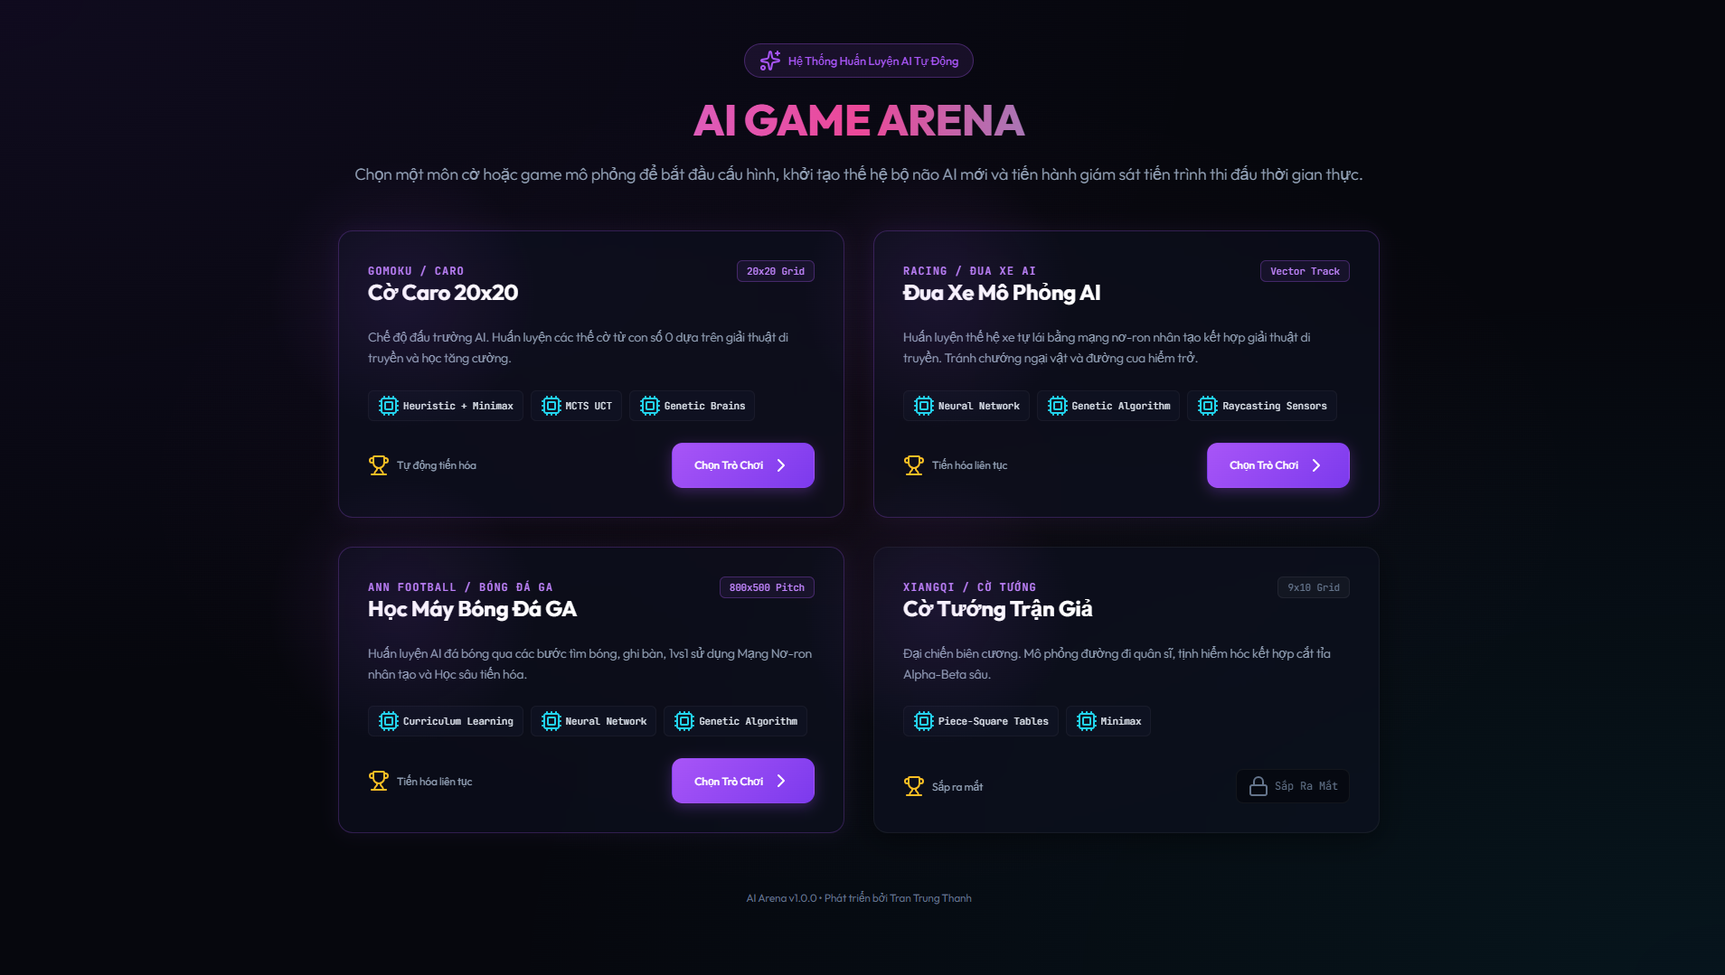
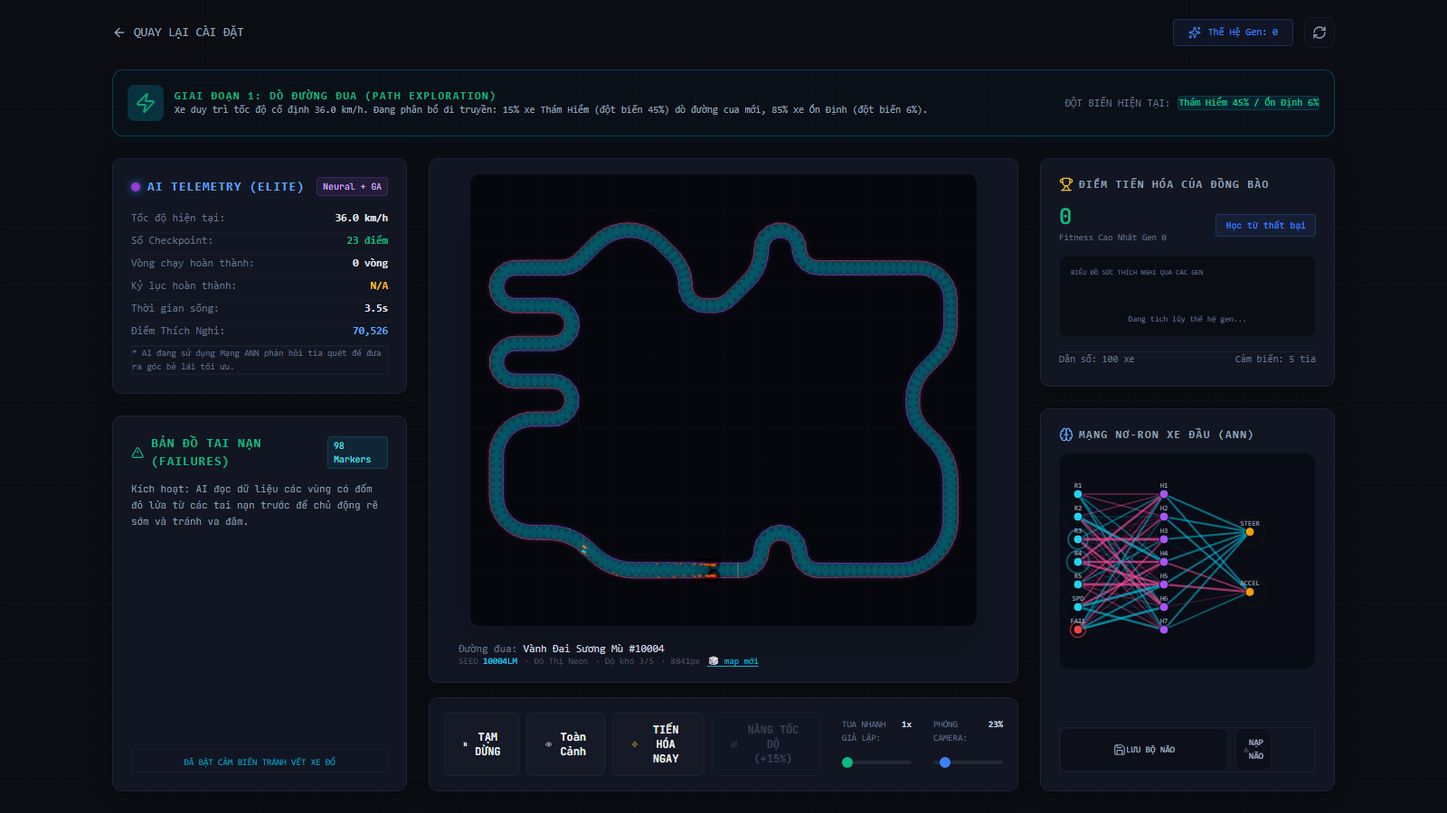
feat: default to English for international clients, add web-scraping-showcase & replace project highlight images

diff --git a/src/components/ProjectSection.tsx b/src/components/ProjectSection.tsx
@@ -12,15 +12,15 @@ const ghImage = (repo: string) =>
 // Ảnh chụp màn hình thật của từng dự án (đặt trong thư mục public IMG/).
 // Được ưu tiên hơn ảnh OpenGraph; nếu thiếu file, <img onError> sẽ tự rơi về ảnh GitHub.
 const REPO_IMAGES: Record<string, string> = {
+  "web-scraping-showcase": "/IMG/project-scraping.png",
   DiemDanhQR: "/IMG/project-diemdanhqr.jpg",
   AI_Lab: "/IMG/project-ailab.png",
   KNN: "/IMG/project-knn.png",
+  "H-c-AI-ML": "/IMG/project-aiml.png",
   Portfolio: "/IMG/project-portfolio.png",
   // Dự án private (không công khai code) — chỉ hiển thị ảnh demo, thả file vào public/IMG/
   AutoTool: "/IMG/project-autotool.png",
   WorkFlowAI: "/IMG/project-workflowai.png",
-  // CHƯA CÓ ẢNH — thả ảnh chụp màn hình vào public/IMG/ đúng tên dưới đây.
-  // Thiếu file thì <img onError> tự rơi về ảnh placeholder có tên dự án, không vỡ layout.
   MadalenaApp: "/IMG/project-madalena-app.png",
   MadalenaWeb: "/IMG/project-madalena-web.png",
   LichIUH: "/IMG/project-lichiuh.png",
@@ -46,7 +46,32 @@ const projectImage = (repo: string) => REPO_IMAGES[repo] || ghImage(repo);
 //            vào cách giải quyết vấn đề, quyết định kỹ thuật và kết quả đạt được.
 //   tech    — danh sách công nghệ, hiện dạng chip trong modal.
 const REPO_META: Record<string, any> = {
+  "web-scraping-showcase": {
+    category: "PYTHON • PLAYWRIGHT • API",
+    shortName: "SCRAPING TOOLKIT",
+    shortNameEn: "SCRAPING TOOLKIT",
+    title: "Web Scraping | Cào dữ liệu & Dò API ẩn",
+    titleEn: "Web Scraping & Hidden API Extraction Toolkit",
+    desc: "Bộ công cụ Python cào dữ liệu song song, tự động dò API JSON ẩn phía sau trang web và xuất ra CSV, JSON, SQLite.",
+    descEn:
+      "Production-style Python scraping toolkit: async HTML crawler, Playwright vs. Hidden JSON API benchmark, and automatic XHR endpoint sniffer.",
+    detailEn:
+      "A production-oriented Python web data extraction toolkit demonstrating three core workflows on public sandbox targets:\n\n1. Polite Async HTML Scraper (`scrape-books`): Crawls 1,000+ paginated catalog and product detail pages using `httpx.AsyncClient`, bounded concurrency (`asyncio.Semaphore`), exponential backoff, and `Retry-After` header support. Exports simultaneously to CSV, pretty JSON, and an idempotent SQLite database (`INSERT OR REPLACE` upserts).\n\n2. Infinite Scroll vs. Direct Hidden JSON API (`compare-scroll`): Extracts the exact same dataset via headless Chromium (Playwright infinite scroll) and via the underlying JSON API, cutting memory usage from ~180 MB to <15 MB while speeding up extraction cleanly.\n\n3. Reusable Hidden-API Sniffer (`sniff-api`): Launches headless Chromium on any JavaScript-heavy page, scrolls automatically, intercepts XHR/Fetch responses returning JSON, and prints discovered endpoints with their top-level schema keys and item counts.",
+    detail:
+      "Bộ công cụ thu thập dữ liệu web chuẩn thực chiến bằng Python, trình diễn 3 quy trình cốt lõi:\n\n1. Cào HTML bất đồng bộ có kiểm soát (`scrape-books`): Quét hơn 1.000 trang danh mục và chi tiết sản phẩm bằng `httpx.AsyncClient`, giới hạn số luồng đồng thời (`asyncio.Semaphore`), tự động thử lại theo cấp số nhân (exponential backoff) và tôn trọng header `Retry-After`. Xuất đồng thời ra CSV, JSON và cơ sở dữ liệu SQLite chống trùng lặp (`INSERT OR REPLACE`).\n\n2. So sánh Cuộn vô tận Playwright và Hidden JSON API (`compare-scroll`): Thu thập cùng một tập dữ liệu bằng trình duyệt không đầu (Playwright) và gọi trực tiếp API JSON ẩn bên dưới, giúp giảm RAM từ ~180 MB xuống dưới 15 MB và tăng tốc độ rõ rệt.\n\n3. Công cụ dò API ẩn dùng lại được (`sniff-api`): Mở trang bất kỳ bằng Chromium, tự động cuộn trang, bắt mọi gói tin XHR/Fetch trả về JSON và liệt kê endpoint kèm cấu trúc khoá dữ liệu.",
+    tech: ["Python", "Playwright", "httpx", "Asyncio", "BeautifulSoup4", "SQLite"],
+    role: "Python / Scraping Developer",
+    roleEn: "Python / Scraping Developer",
+    client: "Dự án mã nguồn mở",
+    clientEn: "Open-source showcase",
+    yearRole: "2026 • Python & Playwright",
+  },
   DiemDanhQR: {
+    category: "JAVASCRIPT • PWA",
+    shortName: "QR ATTENDANCE",
+    shortNameEn: "QR ATTENDANCE",
+    title: "DiemDanhQR | Điểm danh QR",
+    titleEn: "QR Attendance | Serverless Check-In PWA",
     desc: "Điểm danh bằng cách quét mã QR trên điện thoại, tên người có mặt tự chạy thẳng vào Google Sheets.",
     descEn:
       "Take attendance by scanning a QR code on your phone — names land straight in a Google Sheet.",
@@ -61,9 +86,14 @@ const REPO_META: Record<string, any> = {
     clientEn: "Personal project",
   },
   AI_Lab: {
-    desc: "8 trò chơi để xem máy tính tự học chơi từ con số 0 — từ Flappy Bird tới cờ caro và đá bóng 3D.",
+    category: "TYPESCRIPT & AI",
+    shortName: "AI LAB",
+    shortNameEn: "AI LAB",
+    title: "AI_Lab | Phòng thí nghiệm AI",
+    titleEn: "AI Game Arena | Interactive AI & RL Lab",
+    desc: "9 đấu trường 2D/3D để xem máy tính tự học chơi từ con số 0 — từ đua xe thần kinh, cờ caro 20×20 tới đá bóng 3D.",
     descEn:
-      "Eight games where you watch a computer teach itself to play from scratch — Flappy Bird to 3D football.",
+      "Nine 2D & 3D arenas where you watch AI teach itself to play from scratch — raycast racing, 20×20 Gomoku, Q-Maze to 3D football.",
     detailEn:
       "AI Game Arena — a desktop app (Electron) that visualises how AI algorithms, classic and modern, learn and make decisions. You tune the training parameters, network shape or heuristic weights yourself, then watch an AI learn from nothing, or pit two of them against each other.\n\nEight environments, each built on a different family of algorithms:\n• Flappy Bird and AI Racing — neural networks evolved by a genetic algorithm; the cars sense their surroundings with raycasts, and a built-in track builder lets you draw your own circuit.\n• Maze robot — Q-Learning, with a heatmap of the Q-table brightening as the agent learns.\n• 2048 — Expectimax search with heuristics for smoothness, monotonicity and keeping the largest tile cornered.\n• Connect Four and 20×20 Gomoku — Minimax with alpha-beta pruning and a Zobrist-hashed transposition table, plus an MCTS/UCT implementation so the two can be compared head to head.\n• 3D Soccer and 3D Tag — competitive co-evolution with 8-direction raycast sensors and real ball physics.",
     detail:
@@ -93,6 +123,11 @@ const REPO_META: Record<string, any> = {
     yearRole: "2026 • Project Manager",
   },
   Portfolio: {
+    category: "WEB & 3D",
+    shortName: "PORTFOLIO",
+    shortNameEn: "PORTFOLIO",
+    title: "Portfolio | Trang cá nhân 3D",
+    titleEn: "Portfolio | Interactive 3D & SSR Showcase",
     desc: "Chính là trang web bạn đang xem: hiệu ứng 3D, bàn phím tương tác và các trang giới thiệu bản thân.",
     descEn:
       "The site you're looking at right now: 3D effects, an interactive keyboard and the pages introducing me.",
@@ -356,8 +391,15 @@ const privateProjects = [
 // (offline / vượt giới hạn request). Bản fetch động bên dưới sẽ ghi đè phần repo công khai.
 const publicProjects = [
   {
+    id: "web-scraping-showcase",
+    ...REPO_META["web-scraping-showcase"],
+    image: projectImage("web-scraping-showcase"),
+    year: "2026",
+    link: `https://github.com/${GITHUB_USER}/web-scraping-showcase`,
+  },
+  {
     id: "DiemDanhQR",
-    category: "JAVASCRIPT",
+    category: "JAVASCRIPT • PWA",
     shortName: "QR ATTENDANCE",
     title: "DiemDanhQR | Điểm danh QR",
     ...REPO_META.DiemDanhQR,
@@ -563,11 +605,16 @@ function mapRepoToProject(repo: any) {
     id: repo.name,
     category: (repo.language || "PROJECT").toUpperCase(),
     shortName: repo.name,
+    shortNameEn: repo.name,
     title: repo.name,
+    titleEn: repo.name,
     desc: repo.description || "Dự án mã nguồn trên GitHub — bấm để xem chi tiết.",
+    descEn: repo.description || "Open-source project on GitHub — click for details.",
     image: projectImage(repo.name),
     role: `${lang} Developer`,
+    roleEn: `${lang} Developer`,
     client: "Dự án cá nhân",
+    clientEn: "Personal project",
     year,
     yearRole: `${year} • ${lang}`,
     link: repo.html_url,
@@ -679,8 +726,11 @@ export function ProjectSection() {
       .then((r) => (r.ok ? r.json() : Promise.reject(r.status)))
       .then((repos) => {
         if (cancelled || !Array.isArray(repos)) return;
-        // Bỏ các repo fork, chỉ giữ dự án của chính mình
-        const mapped = repos.filter((r: any) => !r.fork).map(mapRepoToProject);
+        // Bỏ các repo fork và repo trùng với dự án đã có trong danh sách private (vd GhiChu trùng NoteMod)
+        const HIDDEN_REPOS = new Set(["GhiChu", "Tthanh2k6"]);
+        const mapped = repos
+          .filter((r: any) => !r.fork && !HIDDEN_REPOS.has(r.name))
+          .map(mapRepoToProject);
         // Luôn giữ dự án private (tool) ở đầu — GitHub API không trả về chúng
         if (mapped.length > 0) applyList([...privateProjects, ...mapped]);
       })

diff --git a/src/routes/index.tsx b/src/routes/index.tsx
@@ -3,18 +3,19 @@ import { useState, useEffect } from "react";
 import { motion } from "framer-motion";
 import { HeroScene } from "@/components/HeroScene";
 import { NavBar } from "@/components/NavBar";
+import { useLang } from "@/lib/i18n";
 
 
 export const Route = createFileRoute("/")({
   head: () => ({
     meta: [
-      { title: "Trần Trung Thành — AI / WEB3 / UI / 3D / MOTION / VIDEO" },
+      { title: "Trung Thanh Tran — Web Scraping, Automation, Full-Stack & AI Developer" },
       {
         name: "description",
-        content: "Portfolio of Trần Trung Thành — designer & developer working across AI, Web3, UI, 3D, motion and video.",
+        content: "Portfolio of Trung Thanh Tran (Trần Trung Thành) — Full-Stack, Web Scraping, Browser Automation, Mobile & AI Developer.",
       },
-      { property: "og:title", content: "Trần Trung Thành — Portfolio" },
-      { property: "og:description", content: "Just chill. The future is rendering." },
+      { property: "og:title", content: "Trung Thanh Tran — Developer Portfolio" },
+      { property: "og:description", content: "Web Scraping · Browser Automation · Full-Stack Web · Mobile · AI" },
     ],
     links: [
       { rel: "preconnect", href: "https://fonts.googleapis.com" },
@@ -36,13 +37,14 @@ const navItems = [
   { label: "Contact", to: "/contact" },
 ];
 
-const tags = ["AI", "WEB3", "UI", "3D", "MOTION", "VIDEO"];
+const tags = ["WEB SCRAPING", "AUTOMATION", "FULL-STACK", "AI / ML", "MOBILE", "3D WEB"];
 
 function Index() {
+  const { lang } = useLang();
   const [mounted, setMounted] = useState(false);
-  const [line1, setLine1] = useState("Just chill. The future is rendering...");
-  const [line2, setLine2] = useState("Trần Trung Thành");
-  const [tagsList, setTagsList] = useState(["AI", "WEB3", "UI", "3D", "MOTION", "VIDEO"]);
+  const [line1, setLine1] = useState("Building scrapers, automations & full-stack products that ship.");
+  const [customLine2, setCustomLine2] = useState<string | null>(null);
+  const [tagsList, setTagsList] = useState(["WEB SCRAPING", "AUTOMATION", "FULL-STACK", "AI / ML", "MOBILE", "3D WEB"]);
 
   useEffect(() => {
     setMounted(true);
@@ -50,9 +52,11 @@ function Index() {
     const stored2 = localStorage.getItem("home_line_2");
     const stored3 = localStorage.getItem("home_line_3");
     if (stored1) setLine1(stored1);
-    if (stored2) setLine2(stored2);
+    if (stored2) setCustomLine2(stored2);
     if (stored3) setTagsList(stored3.split(",").map(t => t.trim()).filter(Boolean));
   }, []);
+
+  const line2 = customLine2 || (lang === "en" ? "Trung Thanh Tran" : "Trần Trung Thành");
 
   return (
     <main className="relative w-full overflow-x-hidden bg-black text-white">

diff --git a/src/routes/__root.tsx b/src/routes/__root.tsx
@@ -80,14 +80,24 @@ export const Route = createRootRouteWithContext<{ queryClient: QueryClient }>()(
     meta: [
       { charSet: "utf-8" },
       { name: "viewport", content: "width=device-width, initial-scale=1" },
-      { title: "Lovable App" },
-      { name: "description", content: "Lovable Generated Project" },
-      { name: "author", content: "Lovable" },
-      { property: "og:title", content: "Lovable App" },
-      { property: "og:description", content: "Lovable Generated Project" },
+      { title: "Trung Thanh Tran — Full-Stack, Web Scraping & Automation Developer" },
+      {
+        name: "description",
+        content:
+          "Interactive 3D portfolio of Trung Thanh Tran — Web Scraping, Browser Automation, Full-Stack Web, Mobile & AI Integration.",
+      },
+      { name: "author", content: "Trung Thanh Tran" },
+      {
+        property: "og:title",
+        content: "Trung Thanh Tran — Full-Stack, Web Scraping & Automation Developer",
+      },
+      {
+        property: "og:description",
+        content:
+          "Interactive 3D portfolio featuring WebGL scenes, production web scrapers, mobile apps and AI automations.",
+      },
       { property: "og:type", content: "website" },
-      { name: "twitter:card", content: "summary" },
-      { name: "twitter:site", content: "@Lovable" },
+      { name: "twitter:card", content: "summary_large_image" },
     ],
     links: [
       {
@@ -123,7 +133,7 @@ function RootShell({ children }: { children: ReactNode }) {
 // Cách xử lý: tăng CONTENT_VERSION mỗi khi đổi các mặc định trong code. Trình duyệt thấy
 // phiên bản lệch sẽ xoá đúng các khoá nội dung cũ để rơi về mặc định mới.
 // Các khoá KHÔNG liên quan tới nội dung (vd sổ lưu bút) được giữ nguyên.
-const CONTENT_VERSION = "2026-08-06-2";
+const CONTENT_VERSION = "2026-10-26-1";
 const VERSIONED_CONTENT_KEYS = [
   "project_list",
   "skills_keycaps",

diff --git a/src/lib/i18n.tsx b/src/lib/i18n.tsx
@@ -26,16 +26,17 @@ type LangValue = {
 };
 
 const LangContext = createContext<LangValue>({
-  lang: "vi",
+  lang: "en",
   setLang: () => {},
-  t: (vi) => vi,
-  pick: (obj, key) => obj?.[key],
+  t: (vi, en) => (en !== undefined ? en : vi),
+  pick: (obj, key) => obj?.[`${key}En`] || obj?.[key],
 });
 
 export function LangProvider({ children }: { children: ReactNode }) {
-  // LUÔN khởi tạo "vi" để HTML server dựng khớp lần render đầu ở client (không lệch
-  // hydrate). Ngôn ngữ đã lưu được áp ngay sau khi mount.
-  const [lang, setLangState] = useState<Lang>("vi");
+  // LUÔN khởi tạo "en" để HTML server dựng khớp lần render đầu ở client (không lệch
+  // hydrate) và mặc định hiển thị tiếng Anh cho khách quốc tế / Upwork.
+  // Ngôn ngữ đã lưu trong localStorage được áp ngay sau khi mount.
+  const [lang, setLangState] = useState<Lang>("en");
 
   useEffect(() => {
     try {

diff --git a/CODEBASE.md b/CODEBASE.md
@@ -1121,7 +1121,7 @@ node -e "const crypto = require('crypto'); console.log(crypto.createHash('sha256
    - Bất kỳ khi nào bạn thêm/sửa/xóa phần tử trong `projects` (`ProjectSection.tsx`) hoặc `KEYCAPS` / `CHART_DATA` / `TITLE_TO_CHART` (`SkillsSection.tsx`), bạn **BẮT BUỘC phải tăng giá trị hằng số `CONTENT_VERSION`** (ví dụ sang `"2026-10-26-1"`). Nếu quên bước này, trình duyệt của người dùng cũ đã từng lưu `localStorage` sẽ tiếp tục hiển thị danh sách cũ và bỏ qua hoàn toàn dữ liệu mới trong code.
 2. **Bất biến An toàn Hydration giữa SSR và Client (`window`, `localStorage`, `LangProvider`):**
    - Vì mọi route đều kết xuất lần đầu trên máy chủ Node.js (SSR), **tuyệt đối không gọi trực tiếp** `window`, `document`, `localStorage`, `sessionStorage`, `navigator`, hay `WebGLRenderingContext` ở thân hàm render của React component. Mọi truy cập trình duyệt phải đặt trong `useEffect`, trình xử lý sự kiện (`onClick`, `onSubmit`), hoặc có nhánh kiểm tra `typeof window !== "undefined"` nhưng vẫn phải đảm bảo HTML lần render đầu tiên trên client khớp 100% với HTML từ server.
-   - Trong `src/lib/i18n.tsx`, state `lang` **phải luôn khởi tạo cố định là `"vi"`** rồi mới đọc `localStorage["site_lang"]` bên trong `useEffect`. Không được sửa thành `useState(() => localStorage.getItem("site_lang"))` vì sẽ gây lỗi lệch cây DOM (`Hydration Mismatch`).
+   - Trong `src/lib/i18n.tsx`, state `lang` **phải luôn khởi tạo cố định là `"en"`** (mặc định hiển thị tiếng Anh cho khách quốc tế / Upwork) rồi mới đọc `localStorage["site_lang"]` bên trong `useEffect`. Không được sửa thành `useState(() => localStorage.getItem("site_lang"))` vì sẽ gây lỗi lệch cây DOM (`Hydration Mismatch`).
 3. **Bất biến Nguồn Dữ liệu Đơn (`Single Source of Truth`) và Sao chép Nông cho `/admin`:**
    - `src/routes/admin.tsx` phải luôn import `projects as DEFAULT_PROJECTS` từ `@/components/ProjectSection` và `KEYCAPS`, `CHART_DATA`, `TITLE_TO_CHART` từ `@/components/SkillsSection`, đồng thời tạo bản sao nông (`.map(x => ({ ...x }))`) trước khi đưa vào `useState` để việc chỉnh sửa nháp trong `/admin` không làm biến đổi mảng hằng gốc đang dùng ở các trang khác trong cùng phiên SPA.
 4. **Bất biến Không gian 3D CSS `preserve-3d` trên Trang Kỹ năng (`src/styles.css` & `SkillsSection.tsx`):**
@@ -1150,8 +1150,8 @@ node -e "const crypto = require('crypto'); console.log(crypto.createHash('sha256
 
 ### 8.3. Các Giới hạn Hiện tại, Edge Cases & Nợ Kỹ thuật Cần Lưu ý
 
-1. **Ba ảnh chụp dự án mới chưa có tệp vật lý trong `public/IMG/`:**
-   - Trong `src/components/ProjectSection.tsx` (dòng `355–357`), bản đồ `REPO_IMAGES` khai báo đường dẫn `/IMG/project-toolphone.png`, `/IMG/project-sothuchi.png`, và `/IMG/project-peoplecount.png` cho 3 dự án cá nhân mới bổ sung ở commit `a4c11af`. Hiện tại thư mục `public/IMG/` chưa có 3 tệp PNG này; nhờ cơ chế fallback 3 tầng nên giao diện tự động hiển thị ảnh chữ `placehold.co` gọn gàng không bị vỡ khung, nhưng nên bổ sung ảnh chụp màn hình thật vào `public/IMG/` để đồng bộ thẩm mỹ với các dự án khác.
+1. **Đã bổ sung đầy đủ ảnh chụp dự án trong `public/IMG/`:**
+   - Toàn bộ các dự án trong `REPO_IMAGES` (`project-toolphone.png`, `project-sothuchi.png`, `project-peoplecount.png`, `project-aiml.png`, `project-scraping.png`, và các bản chụp mới của `project-ailab.png`, `project-diemdanhqr.jpg`, `project-knn.png`) đã có tệp vật lý chuẩn tỉ lệ 16:9 (`1600×900`) trong `public/IMG/`.
 2. **Dung lượng lớn của 3 tệp ảnh JPEG gốc trong `public/IMG/`:**
    - `Profile.jpeg` (`7,63 MB`), `background_info.jpeg` (`7,34 MB`), và `background.jpeg` (`5,74 MB`) đang ở độ phân giải gốc chưa nén WebP/AVIF. Trên mạng di động 4G, trang `/information` và `/skills` có thể mất vài giây để tải xong ảnh nền/ảnh thẻ. Nên nén xuống định dạng `.webp` hoặc giảm dung lượng xuống dưới `500 KB` mà vẫn giữ nguyên chất lượng hiển thị.
 3. **Giới hạn dung lượng `5 MB` của `localStorage` đối với Sổ lưu bút có đính kèm ảnh:**
@@ -1173,3 +1173,4 @@ node -e "const crypto = require('crypto'); console.log(crypto.createHash('sha256
 | Ngày cập nhật | Phạm vi thay đổi | Tóm tắt nội dung cập nhật |
 | :--- | :--- | :--- |
 | `2026-10-26` | Khởi tạo toàn bộ `CODEBASE.md` (Mục 1 → Mục 9) & `agent.md` | Phân tích kiến trúc ngược toàn diện 100% mã nguồn dự án `Portfolio` (`TanStack Start` + `React 19` + `Three.js` + `Tailwind CSS v4` + `Nitro Vercel`): lập bản đồ đầy đủ 36 tệp nguồn/cấu hình/tài liệu/nguyên mẫu và 34 tệp ảnh trong `public/IMG/`; giải phẫu chi tiết cơ chế SSR error normalization, hệ thống song ngữ `i18n`, con trỏ vật lý lò xo, lưới 3D isometric `HeroScene`, vật lý dây đeo thẻ `Verlet`, bàn phím cơ 3D `preserve-3d` + `DonutChart`, băng chuyền dự án vô hạn + modal 2 tầng nội dung + GitHub API, trang CV in ấn PDF khổ A4, hệ thống CMS phía trình duyệt `/admin` (69 khóa Web Storage) cùng 10 bất biến kỹ thuật và kiểm toán bảo mật. |
+| `2026-10-26` | Quốc tế hóa mặc định (`EN`), cập nhật ảnh highlight dự án & bổ sung `web-scraping-showcase` (`src/lib/i18n.tsx`, `src/routes/__root.tsx`, `src/routes/index.tsx`, `src/components/ProjectSection.tsx`, `public/IMG/*`) | Đổi ngôn ngữ khởi tạo mặc định sang `"en"` (vẫn giữ đồng bộ SSR Hydration), cập nhật meta gốc trong `__root.tsx`, nâng `CONTENT_VERSION` lên `"2026-10-26-1"`, cập nhật dòng giới thiệu & bộ tag trang chủ (`WEB SCRAPING`, `AUTOMATION`, `FULL-STACK`, `AI / ML`, `MOBILE`, `3D WEB`), bổ sung dự án `web-scraping-showcase`, lọc repo trùng `GhiChu` khi fetch GitHub API, và bổ sung/thay thế 8 ảnh chụp màn hình dự án 16:9 (`project-toolphone.png`, `project-sothuchi.png`, `project-peoplecount.png`, `project-aiml.png`, `project-scraping.png`, `project-knn.png`, `project-diemdanhqr.jpg`, `project-ailab.png`). |

diff --git a/agent.md b/agent.md
@@ -59,7 +59,7 @@ Khi chỉnh sửa mã nguồn của dự án này, bạn **BẮT BUỘC** tuân 
    - Mỗi khi sửa mảng `projects` (`src/components/ProjectSection.tsx`) hoặc `KEYCAPS` / `CHART_DATA` / `TITLE_TO_CHART` (`src/components/SkillsSection.tsx`), **phải đổi `CONTENT_VERSION` sang chuỗi ngày-phiên bản mới** (ví dụ `"2026-10-27-1"`). Nếu quên, trình duyệt đã có `localStorage` sẽ giữ mãi dữ liệu cũ và không bao giờ thấy thay đổi của bạn.
 2. **Bảo vệ tuyệt đối tính nhất quán SSR Hydration (Không đọc `window`/`localStorage` khi render lần đầu):**
    - Mọi trang đều chạy SSR trên Node.js trước khi hydrate trên trình duyệt. Tuyệt đối **không** gọi `localStorage`, `sessionStorage`, `window`, `document` trực tiếp ngoài `useEffect` hoặc event handler.
-   - Trong `src/lib/i18n.tsx`, `lang` **phải luôn khởi tạo mặc định là `"vi"`** để khớp giữa HTML máy chủ và lần render đầu tiên phía client; việc đọc `localStorage["site_lang"]` chỉ được diễn ra bên trong `useEffect`.
+   - Trong `src/lib/i18n.tsx`, `lang` **phải luôn khởi tạo mặc định là `"en"`** để khớp giữa HTML máy chủ và lần render đầu tiên phía client; việc đọc `localStorage["site_lang"]` chỉ được diễn ra bên trong `useEffect`.
 3. **Không làm phẳng (`flatten`) không gian 3D `preserve-3d` trên trang `/skills`:**
    - Trên các lớp bao ngoài bàn phím 3D và khối chữ nổi `ExtrudedText` (`.skills-stage`, `.skills-keyboard`, `.skills-info-3d`, `.skills-3d-slide-in`, `.skills-3d-slide-out`), **CHỈ được animate thuộc tính `transform`**.
    - **CẤM** thêm `opacity < 1`, `filter`, `backdrop-filter`, `overflow: hidden` hoặc `clip-path` lên các container mang `transform-style: preserve-3d`, vì trình duyệt sẽ lập tức ép phẳng toàn bộ các lát `translateZ` thành 2D bẹt.
